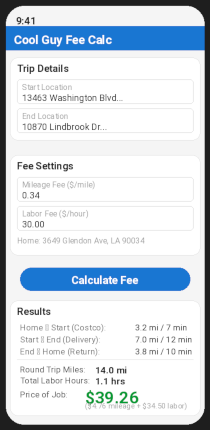
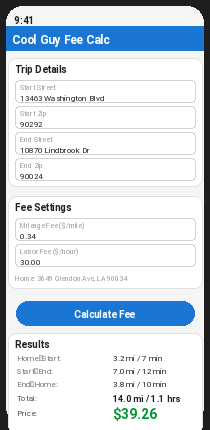
Split start/end into street + zip fields; resize mockup to 210x430

diff --git a/app/src/main/java/com/coolguy/feeCalc/MainActivity.kt b/app/src/main/java/com/coolguy/feeCalc/MainActivity.kt
@@ -128,10 +128,16 @@ class MainActivity : AppCompatActivity() {
     }
 
     private fun calculateFee() {
-        val start = binding.etStartLocation.text.toString().trim()
-        val end = binding.etEndLocation.text.toString().trim()
+        val startStreet = binding.etStartStreet.text.toString().trim()
+        val startZip = binding.etStartZip.text.toString().trim()
+        val endStreet = binding.etEndStreet.text.toString().trim()
+        val endZip = binding.etEndZip.text.toString().trim()
+        val start = "$startStreet, $startZip"
+        val end = "$endStreet, $endZip"
 
-        if (start.isEmpty() || end.isEmpty()) {
+        if (startStreet.isEmpty() || startZip.isEmpty() ||
+            endStreet.isEmpty() || endZip.isEmpty()
+        ) {
             Toast.makeText(this, R.string.error_invalid_input, Toast.LENGTH_SHORT).show()
             return
         }